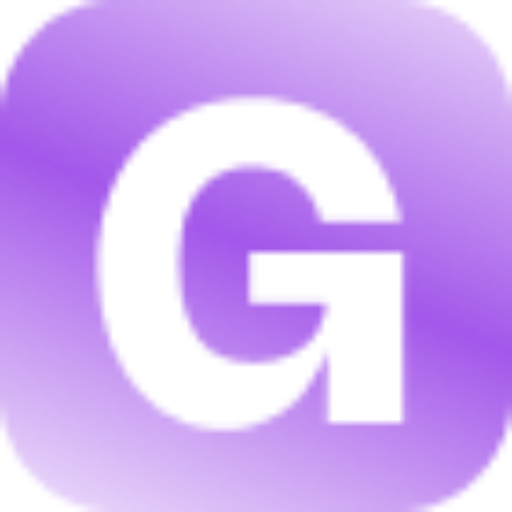
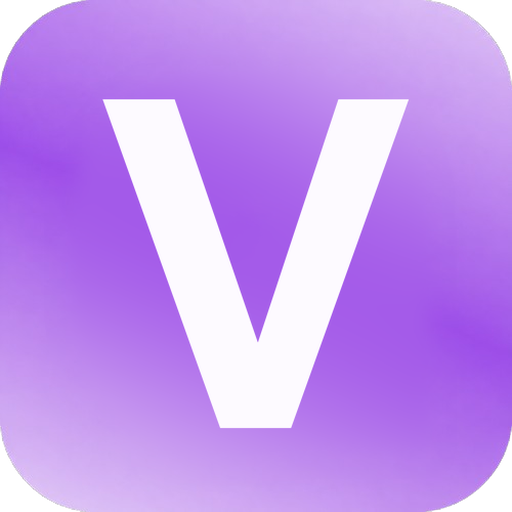
Update portfolio to reflect new personal branding and content changes
- Changed title from "Gourav" to "Vishal" in index.html.
- Updated personal information in the About section and Footer.
- Replaced resume link and associated download attributes to point to "Vishal_Resume.pdf".
- Updated footer branding and social media links to reflect new identity.
- Added new images and projects to the portfolio, including "Oddlert" and "YourGPT Mobile App".
- Modified CSS to use new branding image "VISHAL.png".

diff --git a/src/components/sections/About.tsx b/src/components/sections/About.tsx
@@ -13,10 +13,10 @@ export default function About() {
         <ScrollOpacityText
           type="word"
           className="leading-8 sm:leading-12 font-semibold"
-          text="Hey, I’m Gourav, a software developer with 3+ years of experience. I craft sleek, high-performing interfaces and sprinkle in some UI/UX magic to make them shine. Beyond just looking good, I focus on engineering highly stable, scalable, and resilient products that stand the test of time. When I’m not coding, I’m either tweaking my portfolio (again), pushing pixels in Figma, or pretending I don’t have 37 open tabs. Let’s build something awesome!"
+          text="Hey, I’m Vishal, a software developer with 2 years of experience. I craft sleek, high-performing interfaces and sprinkle in some UI/UX magic to make them shine. Beyond just looking good, I focus on engineering highly stable, scalable, and resilient products that stand the test of time. When I’m not coding, I’m either tweaking my portfolio (again), pushing pixels in Figma, or pretending I don’t have 37 open tabs. Let’s build something awesome!"
         />
         {/* <div className={commClass}>
-          Hey, I’m Gourav, a frontend developer with 2 years of experience,
+          Hey, I’m Vishal, a frontend developer with 2 years of experience,
           turning coffee into clean, pixel-perfect code. I work with React,
           Next.js, React Native, TypeScript, Tailwind, and Framer
           Motion—basically, if it’s on the frontend, I’ve probably styled it,

diff --git a/src/components/sections/Projects.tsx b/src/components/sections/Projects.tsx
@@ -34,7 +34,7 @@ function Item({ i }: { i: (typeof data)[0] }) {
         stiffness: 100,
       }}
       viewport={{ once: false, amount: 0.1 }}
-      href={i.link}
+      href={i.link || undefined}
       target="_blank"
       rel="noreferrer"
       onMouseEnter={() => setHover(true)}
@@ -119,14 +119,9 @@ function Item({ i }: { i: (typeof data)[0] }) {
 
 const data = [
   {
-    name: "Yourgpt Landing Page",
+    name: "Yourgpt Website",
     image: "/work/ygpt.png",
     link: "https://yourgpt.ai",
-  },
-  {
-    name: "AI Helpdesk",
-    image: "/work/helpdesk.png",
-    link: "https://help.yourgpt.ai",
   },
   {
     name: "Chatbot Dashboard",
@@ -134,18 +129,13 @@ const data = [
     link: "https://chatbot.yourgpt.ai",
   },
   {
-    name: "Intervium",
-    image: "/work/intervium.png",
-    link: "https://intervium.vercel.app"
+    name: "YourGPT Mobile App",
+    image: "/work/yourgpt-mobile.png",
+    link: "https://apps.apple.com/in/app/your-ai-chatbot/id6499470819",
   },
   {
-    name: "Drifto",
-    image: "/work/drifto.png",
-    link: "https://drifto.thakurgourav.in",
-  },
-  {
-    name: "Auditions",
-    image: "/work/auditions.png",
-    link: "https://auditions.com",
+    name: "Oddlert",
+    image: "/work/oddlert.png",
+    link: "",
   },
 ];

diff --git a/src/components/sections/Nav.tsx b/src/components/sections/Nav.tsx
@@ -114,8 +114,8 @@ export default function Nav() {
                   <a
                     key={i}
                     target="_blank"
-                    href="/Gourav_Resume.pdf"
-                    download={"Gourav_Resume.pdf"}
+                    href="/Vishal_Resume.pdf"
+                    download={"Vishal_Resume.pdf"}
                   >
                     <StaggerText text={i} key={i} asLink={false} />
                   </a>
@@ -142,8 +142,8 @@ export default function Nav() {
                         initial={{ opacity: 0, x: 30, y: 5 }}
                         key={i}
                         target="_blank"
-                        href="/Gourav_Resume.pdf"
-                        download={"Gourav_Resume.pdf"}
+                        href="/Vishal_Resume.pdf"
+                        download={"Vishal_Resume.pdf"}
                         className="stagger-item"
                         onClick={() => onDropToggle(false)}
                       >

diff --git a/src/components/sections/Footer.tsx b/src/components/sections/Footer.tsx
@@ -19,7 +19,7 @@ export default function Footer() {
             speed={1.0}
           />
         </div>
-        GOURAV
+        VISHAL
       </div> */}
       <div className="w-full max-w-[1000px] h-[100px] sm:h-[150px] md:h-[220px] mx-auto footer_slashed">
         {bg === "light" ? (
@@ -66,15 +66,15 @@ export default function Footer() {
 const SM = [
   {
     name: "LinkedIn",
-    link: "https://www.linkedin.com/in/gouravakajojo/",
+    link: "https://www.linkedin.com/in/vishal-sanwal/",
   },
 
   {
     name: "Email",
-    link: "mailto:gourav98055@gmail.com",
+    link: "mailto:viratrmr@gmail.com",
   },
   {
     name: "Github",
-    link: "https://github.com/GouravAkaJojo?tab=repositories",
+    link: "https://github.com/Vishal7906?tab=repositories",
   },
 ];

diff --git a/src/components/sections/Hero.tsx b/src/components/sections/Hero.tsx
@@ -37,7 +37,7 @@ export default function Hero({ end }: { end: boolean }) {
                       delayChildren: 0.1,
                     }}
                   >
-                    {splitText("GOURAV ", {
+                    {splitText("VISHAL ", {
                       visualDuration: 0.5,
                       ease: "easeInOut",
                     })}
@@ -52,7 +52,7 @@ export default function Hero({ end }: { end: boolean }) {
                       delayChildren: 0.1,
                     }}
                   >
-                    {splitText("THAKUR", {
+                    {splitText("SANWAL", {
                       visualDuration: 0.5,
                       ease: "easeInOut",
                     })}

diff --git a/src/components/sections/Skills.tsx b/src/components/sections/Skills.tsx
@@ -70,25 +70,25 @@ const SKILLS = [
   "Next.js",
   "Node.js",
   "React Native",
+  "Expo",
   "Redux",
   "Zustand",
   "TypeScript",
+  "Swift",
   "Tailwind CSS",
-  "Scss",
   "Framer Motion",
-  "GSAP",
+  "Reanimated",
   "Socket.IO",
   "Supabase",
   "PostgreSQL",
   "MongoDB",
-  "Prisma",
   // "AI Prompting",
-  "REST API Integration",
-  "Github",
   "Git",
   "Vercel",
   // "Cursor",
   "Figma",
+  "Xcode",
+  "Android Studio",
 ];
 
 // const TOOLS = ["Github", "Git", "Vercel", "Cursor", "Figma"];

diff --git a/src/global.css b/src/global.css
@@ -200,8 +200,8 @@ body {
 }
 
 .footer_slashed {
-  -webkit-mask-image: url(/GOURAV.png);
-  mask-image: url(/GOURAV.png);
+  -webkit-mask-image: url(/VISHAL.png);
+  mask-image: url(/VISHAL.png);
   -webkit-mask-repeat: no-repeat;
   mask-repeat: no-repeat;
   -webkit-mask-size: 80% auto;

diff --git a/index.html b/index.html
@@ -10,7 +10,7 @@
   <link rel="mask-icon" href="/safari-pinned-tab.svg" color="#fff" />
   <meta name="msapplication-TileColor" content="#fff" />
   <meta name="viewport" content="width=device-width, initial-scale=1.0" />
-  <title>Gourav</title>
+  <title>Vishal</title>
 </head>
 
 <body>
